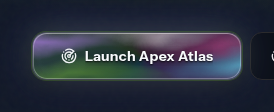
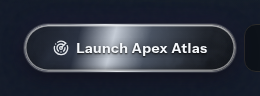
style(ui): mercury mirror Launch button

diff --git a/artifacts/apex-finder/src/index.css b/artifacts/apex-finder/src/index.css
@@ -120,67 +120,78 @@ body {
     0 0 28px rgba(156, 255, 26, 0.07);
 }
 
-/* Primary CTA — liquid chrome / mercury mirror (ref: iridescent distortion) */
+/* Primary CTA — mercury mirror (sharp chrome, not soft aurora) */
 .atlas-launch-glow {
   position: relative;
   isolation: isolate;
   overflow: hidden;
-  color: #f8fafc;
+  color: #f4f7fb;
   font-weight: 700;
-  letter-spacing: 0.02em;
+  letter-spacing: 0.03em;
   text-shadow:
-    0 1px 2px rgba(0, 0, 0, 0.85),
-    0 0 12px rgba(0, 0, 0, 0.45);
-  border: 1px solid rgba(255, 255, 255, 0.22);
-  border-radius: 14px;
-  /* Dark liquid metal base — not flat lime */
+    0 1px 2px rgba(0, 0, 0, 0.9),
+    0 0 8px rgba(0, 0, 0, 0.5);
+  border: 1px solid rgba(255, 255, 255, 0.4);
+  border-radius: 999px;
+  /* Polished dark chrome — hard bands, not soft color wash */
   background:
-    linear-gradient(160deg,
-      #2a3344 0%,
-      #0f141c 22%,
-      #1a2230 45%,
-      #0c1018 68%,
-      #243044 100%);
-  background-size: 180% 180%;
+    linear-gradient(
+      105deg,
+      #0a0c10 0%,
+      #1c222c 12%,
+      #8b93a0 18%,
+      #e8ecf2 22%,
+      #3a4250 28%,
+      #0d1016 40%,
+      #2a3140 52%,
+      #c5ccd6 58%,
+      #4a5362 64%,
+      #0a0c10 78%,
+      #1a2030 88%,
+      #6a7382 94%,
+      #0a0c10 100%
+    );
+  background-size: 280% 100%;
   box-shadow:
-    0 0 0 1px rgba(156, 255, 26, 0.15),
-    0 0 40px rgba(120, 80, 255, 0.28),
-    0 0 28px rgba(156, 255, 26, 0.18),
-    0 8px 24px rgba(0, 0, 0, 0.55),
-    inset 0 1px 0 rgba(255, 255, 255, 0.2),
-    inset 0 -2px 8px rgba(0, 0, 0, 0.5);
-  transition:
-    box-shadow 240ms ease,
-    transform 140ms cubic-bezier(0.2, 1, 0.32, 1),
-    filter 180ms ease;
-  animation: atlas-chrome-base 10s ease-in-out infinite;
+    0 0 0 1px rgba(255, 255, 255, 0.12),
+    0 4px 20px rgba(0, 0, 0, 0.65),
+    0 0 24px rgba(180, 120, 255, 0.12),
+    inset 0 1px 0 rgba(255, 255, 255, 0.35),
+    inset 0 -2px 6px rgba(0, 0, 0, 0.55);
+  animation: atlas-chrome-sweep 5.5s linear infinite;
+  transition: transform 140ms cubic-bezier(0.2, 1, 0.32, 1), box-shadow 200ms ease, filter 160ms ease;
 }
 
-/* Liquid distortion mesh — heavy warp layer */
+/* High-frequency liquid warp of the metal surface */
 .atlas-launch-glow .atlas-liquid-mesh {
   position: absolute;
-  inset: -30%;
+  inset: -40%;
   z-index: 0;
   pointer-events: none;
   background:
-    radial-gradient(ellipse 50% 40% at 20% 30%, rgba(186, 120, 255, 0.7) 0%, transparent 55%),
-    radial-gradient(ellipse 45% 50% at 80% 70%, rgba(60, 220, 255, 0.65) 0%, transparent 55%),
-    radial-gradient(ellipse 40% 35% at 55% 20%, rgba(255, 255, 255, 0.5) 0%, transparent 50%),
-    radial-gradient(ellipse 55% 40% at 30% 80%, rgba(156, 255, 26, 0.35) 0%, transparent 55%),
-    radial-gradient(ellipse 35% 40% at 70% 40%, rgba(255, 60, 140, 0.4) 0%, transparent 50%),
-    conic-gradient(from 120deg at 50% 50%,
-      rgba(180, 100, 255, 0.25),
-      rgba(60, 220, 255, 0.2),
-      rgba(156, 255, 26, 0.15),
-      rgba(255, 80, 160, 0.2),
-      rgba(180, 100, 255, 0.25));
-  mix-blend-mode: screen;
-  opacity: 0.9;
+    repeating-linear-gradient(
+      100deg,
+      transparent 0px,
+      rgba(255, 255, 255, 0.04) 1px,
+      transparent 3px,
+      transparent 14px
+    ),
+    radial-gradient(ellipse 30% 60% at 25% 40%, rgba(255, 255, 255, 0.25) 0%, transparent 55%),
+    radial-gradient(ellipse 25% 50% at 75% 60%, rgba(255, 255, 255, 0.18) 0%, transparent 50%),
+    linear-gradient(
+      160deg,
+      rgba(255, 255, 255, 0.08) 0%,
+      transparent 35%,
+      transparent 65%,
+      rgba(0, 0, 0, 0.25) 100%
+    );
   filter: url(#atlas-liquid-distort);
-  animation: atlas-liquid-mesh-drift 6s ease-in-out infinite;
+  opacity: 0.95;
+  mix-blend-mode: overlay;
+  animation: atlas-liquid-mesh-drift 4.5s ease-in-out infinite;
 }
 
-/* Mercury specular + chromatic fringe */
+/* Thin chromatic fringe only (purple/cyan) — not a color fill */
 .atlas-launch-glow .atlas-liquid-sheen {
   position: absolute;
   inset: 0;
@@ -189,29 +200,22 @@ body {
   border-radius: inherit;
   background:
     linear-gradient(
-      118deg,
+      100deg,
       transparent 0%,
-      transparent 30%,
-      rgba(255, 255, 255, 0.55) 46%,
-      rgba(200, 160, 255, 0.35) 50%,
-      rgba(80, 230, 255, 0.3) 54%,
-      transparent 68%,
+      transparent 42%,
+      rgba(255, 255, 255, 0.7) 49%,
+      rgba(200, 170, 255, 0.35) 51%,
+      rgba(80, 220, 255, 0.3) 53%,
+      transparent 60%,
       transparent 100%
-    ),
-    linear-gradient(
-      200deg,
-      rgba(255, 255, 255, 0.12) 0%,
-      transparent 40%,
-      transparent 70%,
-      rgba(120, 80, 255, 0.15) 100%
     );
-  background-size: 240% 100%, 100% 100%;
+  background-size: 200% 100%;
   mix-blend-mode: soft-light;
-  animation: atlas-liquid-specular 3.8s ease-in-out infinite;
-  opacity: 0.95;
+  animation: atlas-liquid-specular 3.2s ease-in-out infinite;
+  opacity: 0.9;
 }
 
-/* Organic white edge glow (like AR silhouette) */
+/* Hard white rim — AR silhouette edge */
 .atlas-launch-glow .atlas-liquid-rim {
   position: absolute;
   inset: 0;
@@ -219,11 +223,11 @@ body {
   pointer-events: none;
   border-radius: inherit;
   box-shadow:
-    inset 0 0 0 1px rgba(255, 255, 255, 0.35),
-    inset 0 0 18px rgba(255, 255, 255, 0.08),
-    0 0 12px rgba(186, 120, 255, 0.35),
-    0 0 20px rgba(60, 220, 255, 0.2);
-  animation: atlas-liquid-rim-pulse 4s ease-in-out infinite;
+    inset 0 0 0 1.5px rgba(255, 255, 255, 0.55),
+    inset 0 0 12px rgba(255, 255, 255, 0.06),
+    0 0 0 1px rgba(160, 120, 255, 0.25),
+    0 0 14px rgba(80, 200, 255, 0.15);
+  animation: atlas-liquid-rim-pulse 3.5s ease-in-out infinite;
 }
 
 .atlas-launch-glow > .atlas-liquid-label {
@@ -235,55 +239,54 @@ body {
 }
 
 .atlas-launch-glow:hover {
-  filter: brightness(1.08) saturate(1.2);
+  filter: brightness(1.12) contrast(1.08);
   box-shadow:
     0 0 0 1px rgba(255, 255, 255, 0.35),
-    0 0 56px rgba(140, 90, 255, 0.4),
-    0 0 36px rgba(60, 220, 255, 0.3),
-    0 0 24px rgba(156, 255, 26, 0.25),
-    0 8px 28px rgba(0, 0, 0, 0.6),
-    inset 0 1px 0 rgba(255, 255, 255, 0.35);
+    0 6px 28px rgba(0, 0, 0, 0.7),
+    0 0 32px rgba(160, 120, 255, 0.22),
+    0 0 20px rgba(60, 220, 255, 0.15),
+    inset 0 1px 0 rgba(255, 255, 255, 0.5);
+  animation-duration: 3.2s;
 }
 .atlas-launch-glow:hover .atlas-liquid-mesh {
-  animation-duration: 3.5s;
+  animation-duration: 2.8s;
   opacity: 1;
 }
 .atlas-launch-glow:hover .atlas-liquid-sheen {
-  animation-duration: 2.4s;
+  animation-duration: 2s;
 }
 
 .atlas-launch-glow:active {
-  transform: scale(0.97);
-  filter: brightness(0.95);
+  transform: scale(0.975);
+  filter: brightness(0.92);
   box-shadow:
-    0 0 0 1px rgba(255, 255, 255, 0.2),
-    0 0 20px rgba(120, 80, 255, 0.3),
-    inset 0 3px 12px rgba(0, 0, 0, 0.45);
+    0 0 0 1px rgba(255, 255, 255, 0.25),
+    inset 0 3px 14px rgba(0, 0, 0, 0.6);
 }
 
 .atlas-launch-glow.atlas-click-flash {
   animation: atlas-click-flash 480ms cubic-bezier(0.2, 1, 0.32, 1);
 }
 
-@keyframes atlas-chrome-base {
-  0%, 100% { background-position: 0% 40%; }
-  50% { background-position: 100% 60%; }
+@keyframes atlas-chrome-sweep {
+  0% { background-position: 0% 50%; }
+  100% { background-position: 100% 50%; }
 }
 @keyframes atlas-liquid-mesh-drift {
-  0%   { transform: translate3d(-6%, -4%, 0) scale(1.12) rotate(-2deg); }
-  33%  { transform: translate3d(5%, 3%, 0) scale(1.18) rotate(3deg); }
-  66%  { transform: translate3d(2%, -5%, 0) scale(1.1) rotate(-1deg); }
-  100% { transform: translate3d(-6%, -4%, 0) scale(1.12) rotate(-2deg); }
+  0%   { transform: translate3d(-8%, -5%, 0) scale(1.15) rotate(-3deg); }
+  40%  { transform: translate3d(6%, 4%, 0) scale(1.22) rotate(2deg); }
+  100% { transform: translate3d(-8%, -5%, 0) scale(1.15) rotate(-3deg); }
 }
 @keyframes atlas-liquid-specular {
-  0%   { background-position: -20% 0%, 0% 0%; opacity: 0.7; }
-  45%  { background-position: 70% 0%, 100% 0%; opacity: 1; }
-  100% { background-position: 140% 0%, 0% 0%; opacity: 0.7; }
+  0%   { background-position: -30% 0%; opacity: 0.65; }
+  50%  { background-position: 80% 0%; opacity: 1; }
+  100% { background-position: 160% 0%; opacity: 0.65; }
 }
 @keyframes atlas-liquid-rim-pulse {
-  0%, 100% { opacity: 0.85; filter: brightness(1); }
-  50% { opacity: 1; filter: brightness(1.15); }
+  0%, 100% { opacity: 0.9; }
+  50% { opacity: 1; }
 }
+
 
 
 /* Shimmer loading */

diff --git a/artifacts/apex-finder/src/components/layout.tsx b/artifacts/apex-finder/src/components/layout.tsx
@@ -185,12 +185,12 @@ export function Layout({ children }: { children: React.ReactNode }) {
     <div className="atlas-noise flex min-h-[100dvh] min-h-[100svh] overflow-hidden bg-background text-foreground">
       <svg aria-hidden="true" width="0" height="0" style={{ position: "absolute", width: 0, height: 0, overflow: "hidden" }}>
         <defs>
-          <filter id="atlas-liquid-distort" x="-40%" y="-40%" width="180%" height="180%" colorInterpolationFilters="sRGB">
-            <feTurbulence type="fractalNoise" baseFrequency="0.012 0.02" numOctaves="4" seed="3" result="noise">
-              <animate attributeName="baseFrequency" dur="6s" values="0.012 0.02;0.025 0.015;0.01 0.028;0.012 0.02" repeatCount="indefinite" />
+          <filter id="atlas-liquid-distort" x="-50%" y="-50%" width="200%" height="200%" colorInterpolationFilters="sRGB">
+            <feTurbulence type="turbulence" baseFrequency="0.035 0.05" numOctaves="5" seed="2" result="noise">
+              <animate attributeName="baseFrequency" dur="4s" values="0.035 0.05;0.055 0.03;0.028 0.06;0.035 0.05" repeatCount="indefinite" />
             </feTurbulence>
-            <feDisplacementMap in="SourceGraphic" in2="noise" scale="36" xChannelSelector="R" yChannelSelector="G">
-              <animate attributeName="scale" dur="5s" values="28;42;32;36;28" repeatCount="indefinite" />
+            <feDisplacementMap in="SourceGraphic" in2="noise" scale="48" xChannelSelector="R" yChannelSelector="G">
+              <animate attributeName="scale" dur="3.5s" values="38;58;44;48;38" repeatCount="indefinite" />
             </feDisplacementMap>
           </filter>
         </defs>
